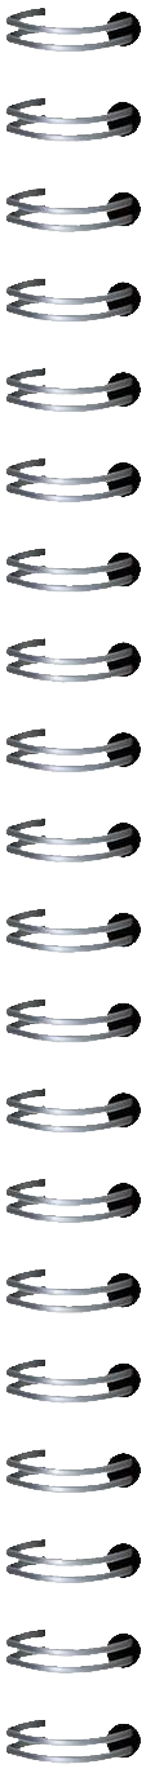
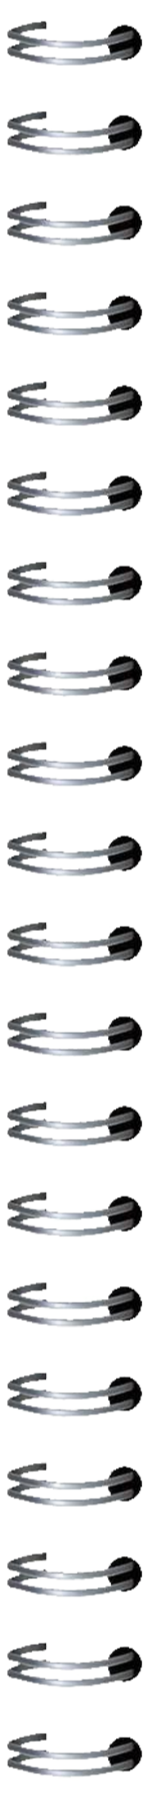
up

diff --git a/src/PageComponent.jsx b/src/PageComponent.jsx
@@ -14,7 +14,7 @@ const PageComponent = ({ title, children }) => {
   };
 
   return (
-    <div className="relative flex  flex-col min-h-[calc(100dvh-2rem)]">
+    <div className="relative flex  flex-col pb-12 min-h-[calc(100dvh-2rem)]">
       {/* <div className='text-left text-[10px] my-2 border border-border-primary'>{title}</div> */}
 
       <div
@@ -34,7 +34,7 @@ const PageComponent = ({ title, children }) => {
           }}
         />
         <div className="w-full min-w-0 md:mx-auto pr-4">{children}</div>
-        {/* <button onClick={handleBack} className="text-[10px] opacity-60 hover:underline bg-none border-none cursor-pointer p-0">Back</button> */}
+        <button onClick={handleBack} className="text-[10px] opacity-60 hover:underline bg-none border-none cursor-pointer p-0">Back</button>
       </div>
 
       {/* <div className="backbutton mt-8 border-border-primary ">

diff --git a/src/list.jsx b/src/list.jsx
@@ -7,7 +7,7 @@ const List = ({ id, category, title, date, NoPage }) => {
 
   return (
     <div className="card gap-4">
-      <div className="text-area text-left col-span-1 md:col-span-2 flex gap-1">
+      <div className="text-area text-left col-span-1 md:col-span-2 flex gap-1 ml-2">
         {NoPage ? (
           <div className="title text-[12px]">{title}</div>
         ) : (

diff --git a/src/Page/WorksPage.jsx b/src/Page/WorksPage.jsx
@@ -5,7 +5,7 @@ import CardVideo from '../CardVideo'
 import CardMusic from '../CardMusic'
 import PageComponent from '../PageComponent'
 
-const NO_YEAR_CATEGORIES = ['music', 'publish', 'works'];
+const NO_YEAR_CATEGORIES = ['music', 'publish', 'works','video'];
 
 const WorksPage = ({ category }) => {
   const { works, fetchWorks, isLoading, error } = useWorkStore();
